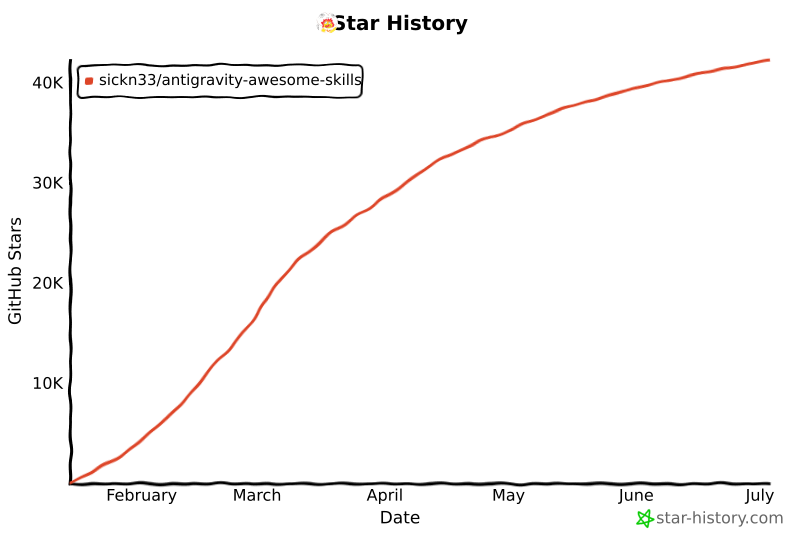
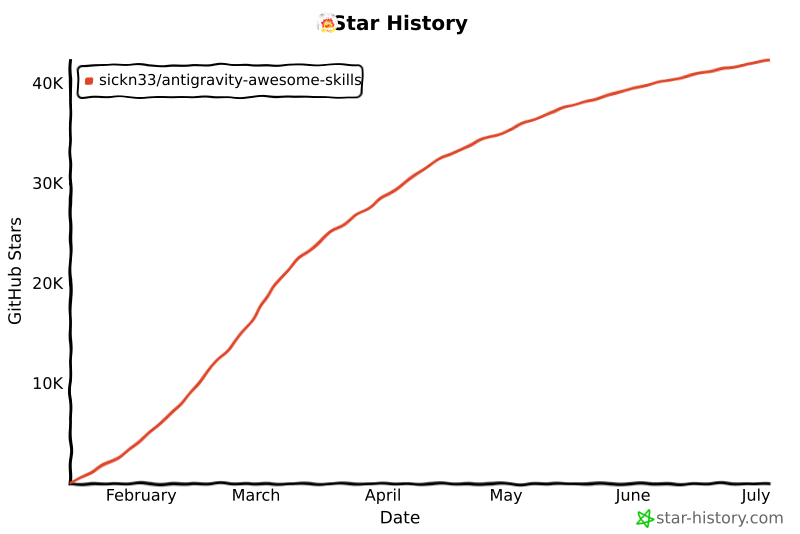
chore: update star history chart

diff --git a/README.md b/README.md
@@ -494,14 +494,14 @@ We officially thank the following contributors for their help in making this rep
 ## Star History
 
 <a href="https://www.star-history.com/#sickn33/antigravity-awesome-skills&type=date&legend=top-left">
- <img alt="Star History Chart" src="https://api.star-history.com/svg?repos=sickn33/antigravity-awesome-skills&type=date&legend=top-left&cache_bust=202607040818" />
+ <img alt="Star History Chart" src="https://api.star-history.com/svg?repos=sickn33/antigravity-awesome-skills&type=date&legend=top-left&cache_bust=202607050836" />
 </a>
 
 <a href="https://www.star-history.com/sickn33/antigravity-awesome-skills">
  <picture>
-   <source media="(prefers-color-scheme: dark)" srcset="https://api.star-history.com/chart?repos=sickn33/antigravity-awesome-skills&style=landscape1&theme=dark&cache_bust=202607040818" />
-   <source media="(prefers-color-scheme: light)" srcset="https://api.star-history.com/chart?repos=sickn33/antigravity-awesome-skills&style=landscape1&cache_bust=202607040818" />
-   <img alt="Star History Chart" src="https://api.star-history.com/chart?repos=sickn33/antigravity-awesome-skills&style=landscape1&cache_bust=202607040818" />
+   <source media="(prefers-color-scheme: dark)" srcset="https://api.star-history.com/chart?repos=sickn33/antigravity-awesome-skills&style=landscape1&theme=dark&cache_bust=202607050836" />
+   <source media="(prefers-color-scheme: light)" srcset="https://api.star-history.com/chart?repos=sickn33/antigravity-awesome-skills&style=landscape1&cache_bust=202607050836" />
+   <img alt="Star History Chart" src="https://api.star-history.com/chart?repos=sickn33/antigravity-awesome-skills&style=landscape1&cache_bust=202607050836" />
  </picture>
 </a>
 
